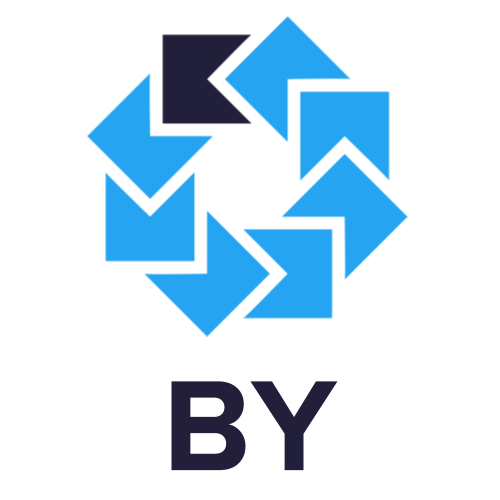
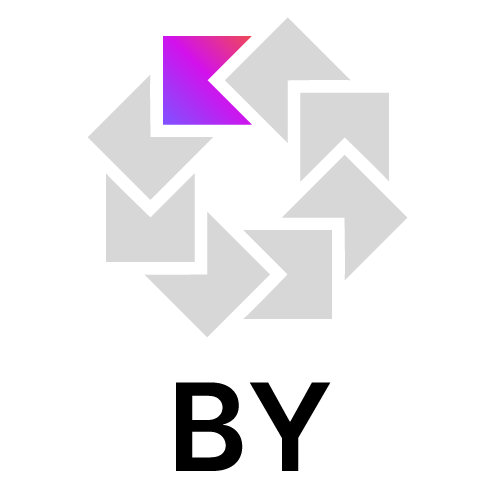
ktl-750 chore: update KUG branding

Changed region(s): [[0.18, 0.03, 0.81, 0.69], [0.33, 0.75, 0.69, 0.96]]

diff --git a/blocks/community/kugs-list/kugs-list.module.css b/blocks/community/kugs-list/kugs-list.module.css
@@ -74,5 +74,6 @@
     .logo {
         display: block;
         margin-right: 24px;
+        width: 100px;
     }
 }

diff --git a/docs/topics/kug-branding.md b/docs/topics/kug-branding.md
@@ -70,8 +70,8 @@ There are two main reasons why we are doing it:
 ### Create the logo of your user group
 
 To create a logo of your users group:
-1. Copy the Kotlin user group [logo file](https://docs.google.com/drawings/d/1CQ5CrEuQhYubcPkAjTBcy6lnY7mcrgd8pUr2NAh0qE8/edit) to your Google drive (you have to be signed in to your Google account).
-2. Replace the ‘Groupname’ text with the name of your user group.
+1. Copy the Kotlin user group [logo file](https://docs.google.com/drawings/d/1IcJp8Z2jAwEliXrHB-l9RNK_2LrqGTkNuPPtjrW1iIU/edit) to your Google drive (you have to be signed in to your Google account).
+2. Replace the ‘Your City’ text with the name of your user group.
 3. Download the picture and use it for the user group materials.
 
 ![Belarusian Kotlin User Group sample](kotlin-user-group-avatar.png){width=300}
@@ -83,14 +83,14 @@ You can download a [set of graphics](https://drive.google.com/drive/folders/0B3Z
 ### Create your group’s profile picture for different platforms
 
 To create your group’s profile picture:
-1. Make a copy of the Kotlin user group profile [picture file](https://docs.google.com/drawings/d/19AG_SwcAUF-Te9Nv-Gw2U6Rtma--l1MI2napQwX5u1o/edit) to your Google Drive (you have to be signed in to your Google account).
+1. Make a copy of the Kotlin user group profile [picture file](https://docs.google.com/drawings/d/1buhwccmllb7wFS0OIAub0WC4DIuSHRiDpjEQhB4tkPs/edit) to your Google Drive (you have to be signed in to your Google account).
 2. Add a shortened name of the user group’s location (up to 4 capital symbols according to our default sample).
 3. Download the picture and use it for your profiles on Facebook, Twitter, or any other platform.
 
 ### Create meetup.com cover photo
 
 To create a cover photo with a group's logo for meetup.com:
-1. Make a copy of the [picture file](https://docs.google.com/drawings/d/1GMr406tAicZIa86rMGKUZkHc8rRTls3tB618nDTZKSQ/edit) to your Google
+1. Make a copy of the [picture file](https://drive.google.com/file/d/1g_0Plf_do6vrXvy1R-Hx430vfV2CPVKN/view) to your Google
    Drive (you have to be signed in to your Google account).
 2. Add a shortened name of the user group’s location to the logo on the right upper corner of the picture. If you want to replace the general pattern with a custom picture, click on
    the background pattern-picture, choose 'Replace Image', then 'Upload from Computer' or any other source.
